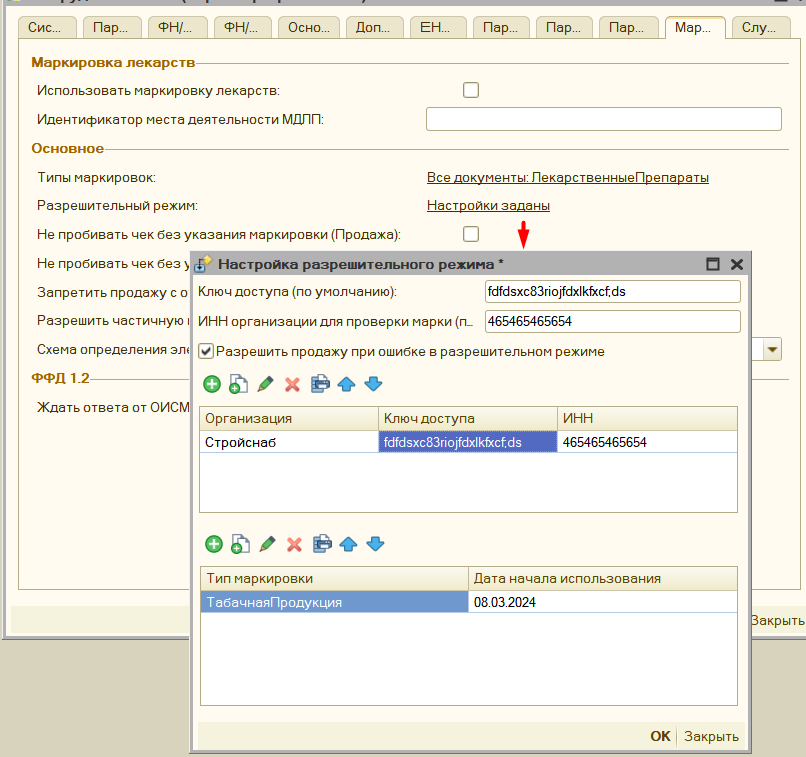
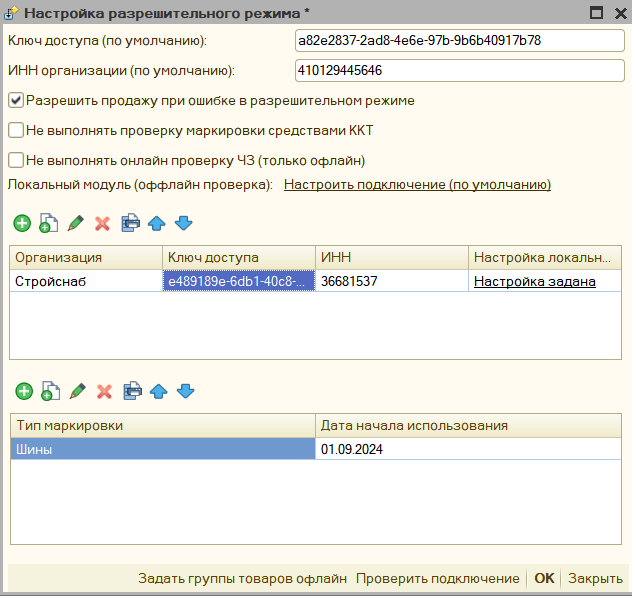
3.98

diff --git a/docs/marking.md b/docs/marking.md
@@ -21,7 +21,7 @@
 - Иметь актуальную версию драйвера и прошивки вашего фискального регистратора.
 - Версия данной программы не ниже **3.79**
 - Должен быть интернет на рабочем месте кассира или сервере RDP (если пользователи работают через RDP)
-- Проверить не заблокирован ли доступ к серверам Честного знака на вашем сервере, такэе сам Честный знак может блокировать доступ, если клиентское подключение выполняется через VPN
+- Проверить не заблокирован ли доступ к серверам Честного знака на вашем сервере, также сам Честный знак может блокировать доступ, если клиентское подключение выполняется через VPN
 
 
 Для того, чтобы включить поддержку **"Разрешительного режим продажи"** в данной программе необходимо в параметрах в разделе "Маркировка" найти "Разрешительный режим". ![Настройка разрешительного режима](media/access_mode.png)
@@ -33,12 +33,17 @@
 - **ИНН организации для проверки марки (по умолчанию)** - ИНН организации, которой принадлежит токен доступа, его нужно указывать, так как ИНН используется в качестве параметра запроса на проверку марки в Честном Знаке.
 
 - **Разрешить продажу при ошибке в разрешительном режиме** - позволяет пропустить проверку в разрешительном режиме в случае ошибки, при этом программа вначале попытается проверить через Честный Знак, а затем предложит пропустить проверку. Данная настройка не отключает механизм проверки через ККТ. 
-   > **Обратите внимание**, что пропускать проверку товара в разрешительном режиме можно только при недоступности сервера Честного знака.
+   > **Обратите внимание**, что пропускать проверку товара в разрешительном режиме можно только при недоступности сервера Честного знака, а с появлением проверки через локальный модуль, и вовсе запрещено.
 
-- Заполнение ключа доступа в разрезе организаций - требуется в том случае, если на одном рабочем месте чеки могут формироваться по разным организациям, и на каждой свой ключ доступа, здесь также можно указать ИНН для отправки запросов, если он не заполнен, то программа попытается получить ИНН из карточки организации.
+- **Не выполнять проверку маркировки средствами ККТ** - при включении данного параметра, если проверка маркировки через разрешительный режим успешна, то последующая проверка на фискальном регистраторе будет в упрощенном режиме, кассовое ПО не будет дожидаться ответа от ОИСМ, и пробьется чек, однако в итоговом чеке будет отображаться не [M+], что 
+соответствует, что маркировка прошла проверку средствами ККТ, а [M] (так как мы проверку пропустили), но ранее марка уже была проверена через сервера Честного знака, то это не является нарушением. Маркировка будет успешно списана через Честный знак.
+
+- Заполнение ключа доступа в разрезе организаций - требуется в том случае, если на одном рабочем месте чеки могут формироваться по разным организациям, и на каждой свой ключ доступа, здесь также можно указать ИНН для отправки запросов, если он не заполнен, то программа попытается получить ИНН из карточки организации, также в разрезе организации указывается подключение к локальному модулю, если в рамках одного рабочего места используются несколько организаций.
 
 - Настройка использования типа маркировки для разрешительного режима, здесь можно указать какая маркировка подлежит проверки и какой даты.
    > **ВАЖНО**, без этой настройки даже если будет заполнен ключ доступа маркировка не будет проверяться, нужно обязательно здесь указать нужную маркировку. Например, с 01 апреля 2024 года требуется проверять "Табачную продукцию" и "Пиво", для этого в этой таблице мы указываем нужный тип маркировкаи, а в поле "**Дата начала использования**" указать 01.04.2024.
+
+Остальные настройки относятся к использованию локального модуля, что описано [здесь](#настройка-локального-модуля-для-офлайн-проверки)
 
 Нужно проверить доступ к серверам Честного знака, для снижения нагрузки Честный Знак предоставляет несколько серверов для проверки маркировки, при этом первым запросом отправляется на основной сервер получение самого списка доступных CDN площадок для проверки маркировки, из них выбирается самая быстрая, и к ней уже отправляется запрос на проверку марки. Сама CDN площадка, например имеет следующий адрес: "https://cdn06.crpt.ru", а их может быть множетсво. Если 1С располагается на сервере, а доступ к ней имеют подключаясь через RDP, то запросы на проверку маркировки по разрешительному режиму будут уходить через сервер, а не клиентскую машину пользователя, это связано с архитектурной особенностью 1С, работающей на обычных формах, поэтому в исключения брандмауэра сервера нужно вносить адреса CDN площадок Честного знака (уточнить их ip адреса), а также основной ip адрес сервера проверки маркировки. Таким образом разешен доступ должны быть для https://markirovka.crpt.ru , https://cdn.crpt.ru  и для адресов CDN площадок по указанному регулярному выражению https:\/\/cdn\d{2}\.crpt\.ru
 
@@ -60,6 +65,91 @@
 При успешном выполнении информация о времени проверки статуса, и идентификатор этого запроса будет прописан в отраслевой реквизит будущего чека. По сути проверка в разрешительном режиме только дополняет стандартную проверку через ККТ.
 
 > **Обратите внимание**: если товар проверен при разрешительном режиме, то дополнительно ожидать от Честного Знака, что марка верная, нет смысла, поэтому запрос о проверке отправляется без ожидания ответа от Честного Знака, из-за этого в позициях такого товара появляется знак **[M]**, вместо **[M+]**, то есть марка не проверена в Честном знаке, такое поведение является допустимым, так как предварительно марка уже была проверена с помощью другого онлайн сервиса, такое поведение существенно ускоряет продажу маркированной продукции, так как разрешительный режим позволяет проверять сразу несколько марок, а не по одной. Дополнительно можно ознакомиться с [пояснениями](https://markirovka.ru/knowledge/tovarnye-gruppy/obschie-voprosy-gis/znachenie-m-v-fiskalnykh-dokumentakh-chekakh) от самого Честного Знака 
+
+# 📌 Настройка локального модуля для офлайн проверки
+
+С **1 марта 2025 года** вводится обязательное использование локального модуля **Честного Знака** для офлайн проверки маркировки. Он используется, если онлайн-проверка невозможна (например, из-за отсутствия интернета или недоступности серверов).
+
+---
+
+## 🚀 Как подключить офлайн режим?
+
+🔗 [Официальная инструкция](https://markirovka.ru/community/rezhim-proverok-nakassakh/oflayn-proverka-na-kassakh-lokalnyy-modul-chz) для Windows.
+
+### 🔧 **Установка локального модуля**
+1. Перейдите на страницу **Локального модуля**:  
+   👉 [Официальный сайт](https://xn--80ajghhoc2aj1c8b.xn--p1ai/local-module/)
+2. В разделе **«Скачать ПО Локальный модуль»** выберите и скачайте нужный файл.
+3. Запустите установочный файл и следуйте инструкциям.
+4. Обновите обработку до версии **3.98** или новее.
+5. Настройте локальный модуль в программе (см. ниже).
+
+---
+
+## ⚙ Настройка локального модуля в программе
+
+Настройки модуля находятся в разделе конфигурации, где указываются параметры разрешительного режима.
+
+![Заполнение офлайн проверки разрешительный режим](media/set_local_module.png)
+
+### 📌 **Основные параметры**
+
+- **`не выполнять онлайн проверку ЧЗ (только офлайн)`** – позволяет пропустить онлайн-проверку и сразу проверять маркировку офлайн.  
+  🚨 *Рекомендуется только в случаях долгого отсутствия интернета (>1 часа).*
+
+- **Локальный модуль (офлайн проверка) По умолчанию** – указывает параметры подключения к локальному модулю, если не задано иное.
+
+- **Настройка локального модуля для организаций** – если несколько организаций используют кассу, для каждой указывается отдельный модуль.  
+  ❌ *Использование одного модуля для нескольких организаций – технически недопустимо!*  
+  ✅ *Решение: разнести модули по разным портам или компьютерам.*
+
+![Рекомендации ЧЗ](media/rec_local_mod.png)
+
+- **`Задать группы товаров офлайн`** – позволяет выбрать, для каких товаров загружать данные о заблокированных марках.
+
+![Настройка локального модуля](media/local_module.png)
+
+---
+
+## 🔄 Настройка самого модуля
+
+1. Войдите в **меню настройки модуля**.
+2. Укажите:
+   - **Адрес установленного модуля**
+   - **Логин и пароль** (должны соответствовать тем, что были указаны при установке модуля)
+3. Нажмите **«Настроить модуль» → «Инициализировать»**.
+4. После успешной инициализации, в течение 2-3 минут, нужно дождаться статус `ready`,  и после переходить к его использовани.
+
+> **Обратите внимание!** Если необходимо перерегистрировать модуль для другой организации, его нужно удалить вместе с настройками и установить заново.
+
+---
+
+## 🔍 Как работает локальный режим (офлайн проверка)?
+
+После настройки система проверяет маркировку в три этапа:
+
+1. 🔍 Проверка доступности **CDN-площадок** (раз в сутки).
+2. 🌐 Онлайн-проверка:
+   - Если серверы доступны, проверка проходит в интернете.
+   - Если серверы недоступны или истек таймаут, активируется офлайн режим.
+3. ✅ Офлайн-проверка:
+   - Система запрашивает внутреннюю базу.
+   - Проверяется **только факт блокировки марки**, дополнительные проверки недоступны.
+
+📌 *Если онлайн или офлайн проверка пройдена – маркировка передается на кассу, которая также выполняет контроль.*
+
+---
+
+## ❓ Часто задаваемые вопросы (FAQ)
+
+### **Что делать, если офлайн проверка не работает?**
+1. Убедитесь, что установленная версия локального модуля **актуальна**.
+2. Проверьте, что в настройках указан **правильный адрес модуля**.
+3. Обновить данную программу, возможно были выпущены исправления для использования локального модуля
+4. Если проблема не решена – проверьте настройки сети и файрвола.
+
+### **Можно ли использовать один модуль для нескольких организаций?**
+Нет, официальная рекомендация – **разные локальные модули для каждой организации**. Альтернативный вариант – настройка модулей на **разных портах**.
 
 
 ## Настройка типов маркировки ##

diff --git a/README.md b/README.md
@@ -18,7 +18,8 @@
 - Перед фискальной печатью можно дополнительно сформировать предварительный чек, где будут выведены все нужные реквизиты для проверки
 - Можно сформировать [чек коррекции](docs/form_check_and_check_correction.md#чек-коррекции) средствами обработки, либо на основании типового документа
 - Использует собственную форму «Рабочего места кассира» ([Форма проверки печати](docs/form_check_and_check_correction.md))
-- Поддерживается разрешительный режим продажи маркированного товара ([Настройка разрешительного режима продажи](docs/marking.md#разрешительный-режим-продажи-маркировки))
+- Поддерживает разрешительный режим продажи маркированного товара ([Настройка разрешительного режима продажи](docs/marking.md#разрешительный-режим-продажи-маркировки))
+- Поддерживает локальный модуль офлайн проверки маркировки в рамках разрешительного режима ([Настройка локального модуля (офлайн проверка)](docs/marking.md#настройка-локального-модуля-для-офлайн-проверки)
 - Поддержка печати чеков с детализацией номенклатуры по кассовым документам(Приходный кассовый ордер, Расходный кассовый ордер, Платежное поручение входящее и т.д)
 - Отдельно можно использовать Эмулятор оборудования ККТ
 - Позволяет [отправить электронный чек](docs/management_distribution.md) средствами 1С по почте или в виде SMS

diff --git a/docs/index.md b/docs/index.md
@@ -23,7 +23,8 @@ hide:
 - Перед фискальной печатью можно дополнительно сформировать предварительный чек, где будут выведены все нужные реквизиты для проверки
 - Можно сформировать [чек коррекции](form_check_and_check_correction.md#чек-коррекции) средствами обработки, либо на основании типового документа
 - Использует собственную форму «Рабочего места кассира» ([Форма проверки печати](form_check_and_check_correction.md))
-- Поддерживается разрешительный режим продажи маркированного товара ([Настройка разрешительного режима продажи](marking.md#разрешительный-режим-продажи-маркировки))
+- Поддерживае разрешительный режим продажи маркированного товара ([Настройка разрешительного режима продажи](marking.md#разрешительный-режим-продажи-маркировки))
+- Поддерживает локальный модуль офлайн проверки маркировки в рамках разрешительного режима ([Настройка локального модуля (офлайн проверка)](marking.md#настройка-локального-модуля-для-офлайн-проверки)
 - Поддержка печати чеков с детализацией номенклатуры по кассовым документам(Приходный кассовый ордер, Расходный кассовый ордер, Платежное поручение входящее и т.д)
 - Отдельно можно использовать Эмулятор оборудования ККТ
 - Позволяет [отправить электронный чек](management_distribution.md) средствами 1С по почте или в виде SMS
